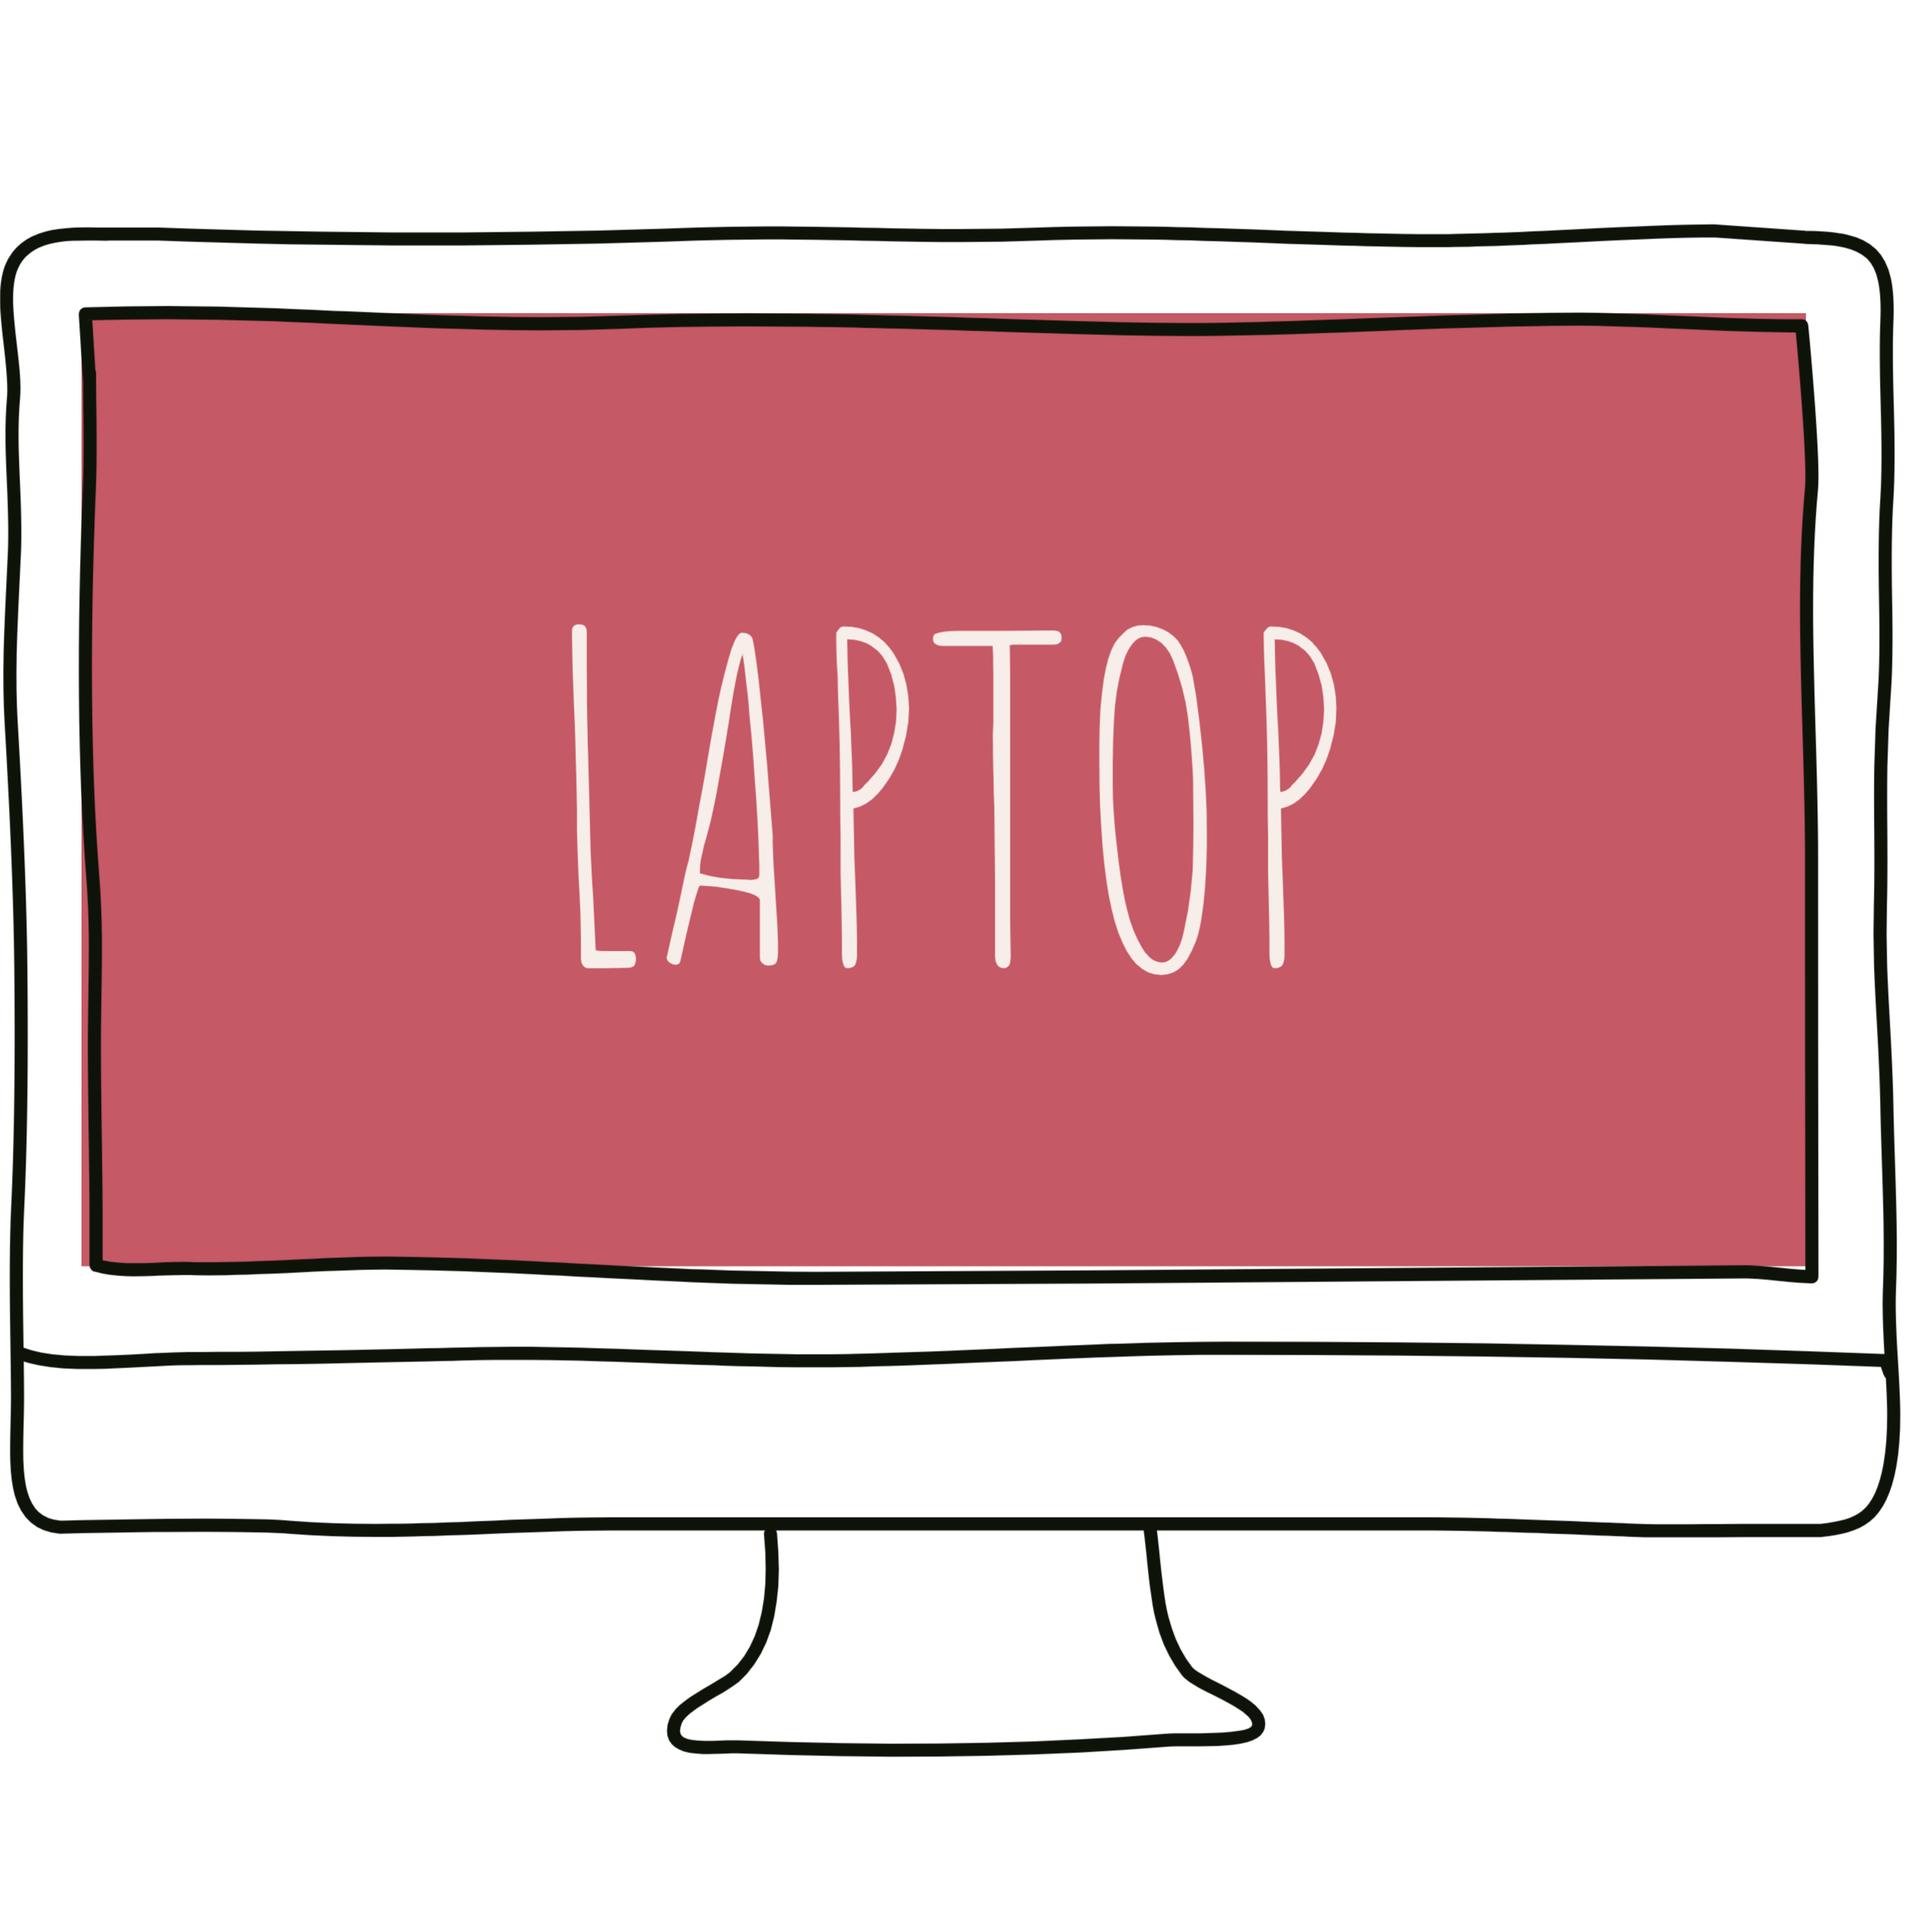
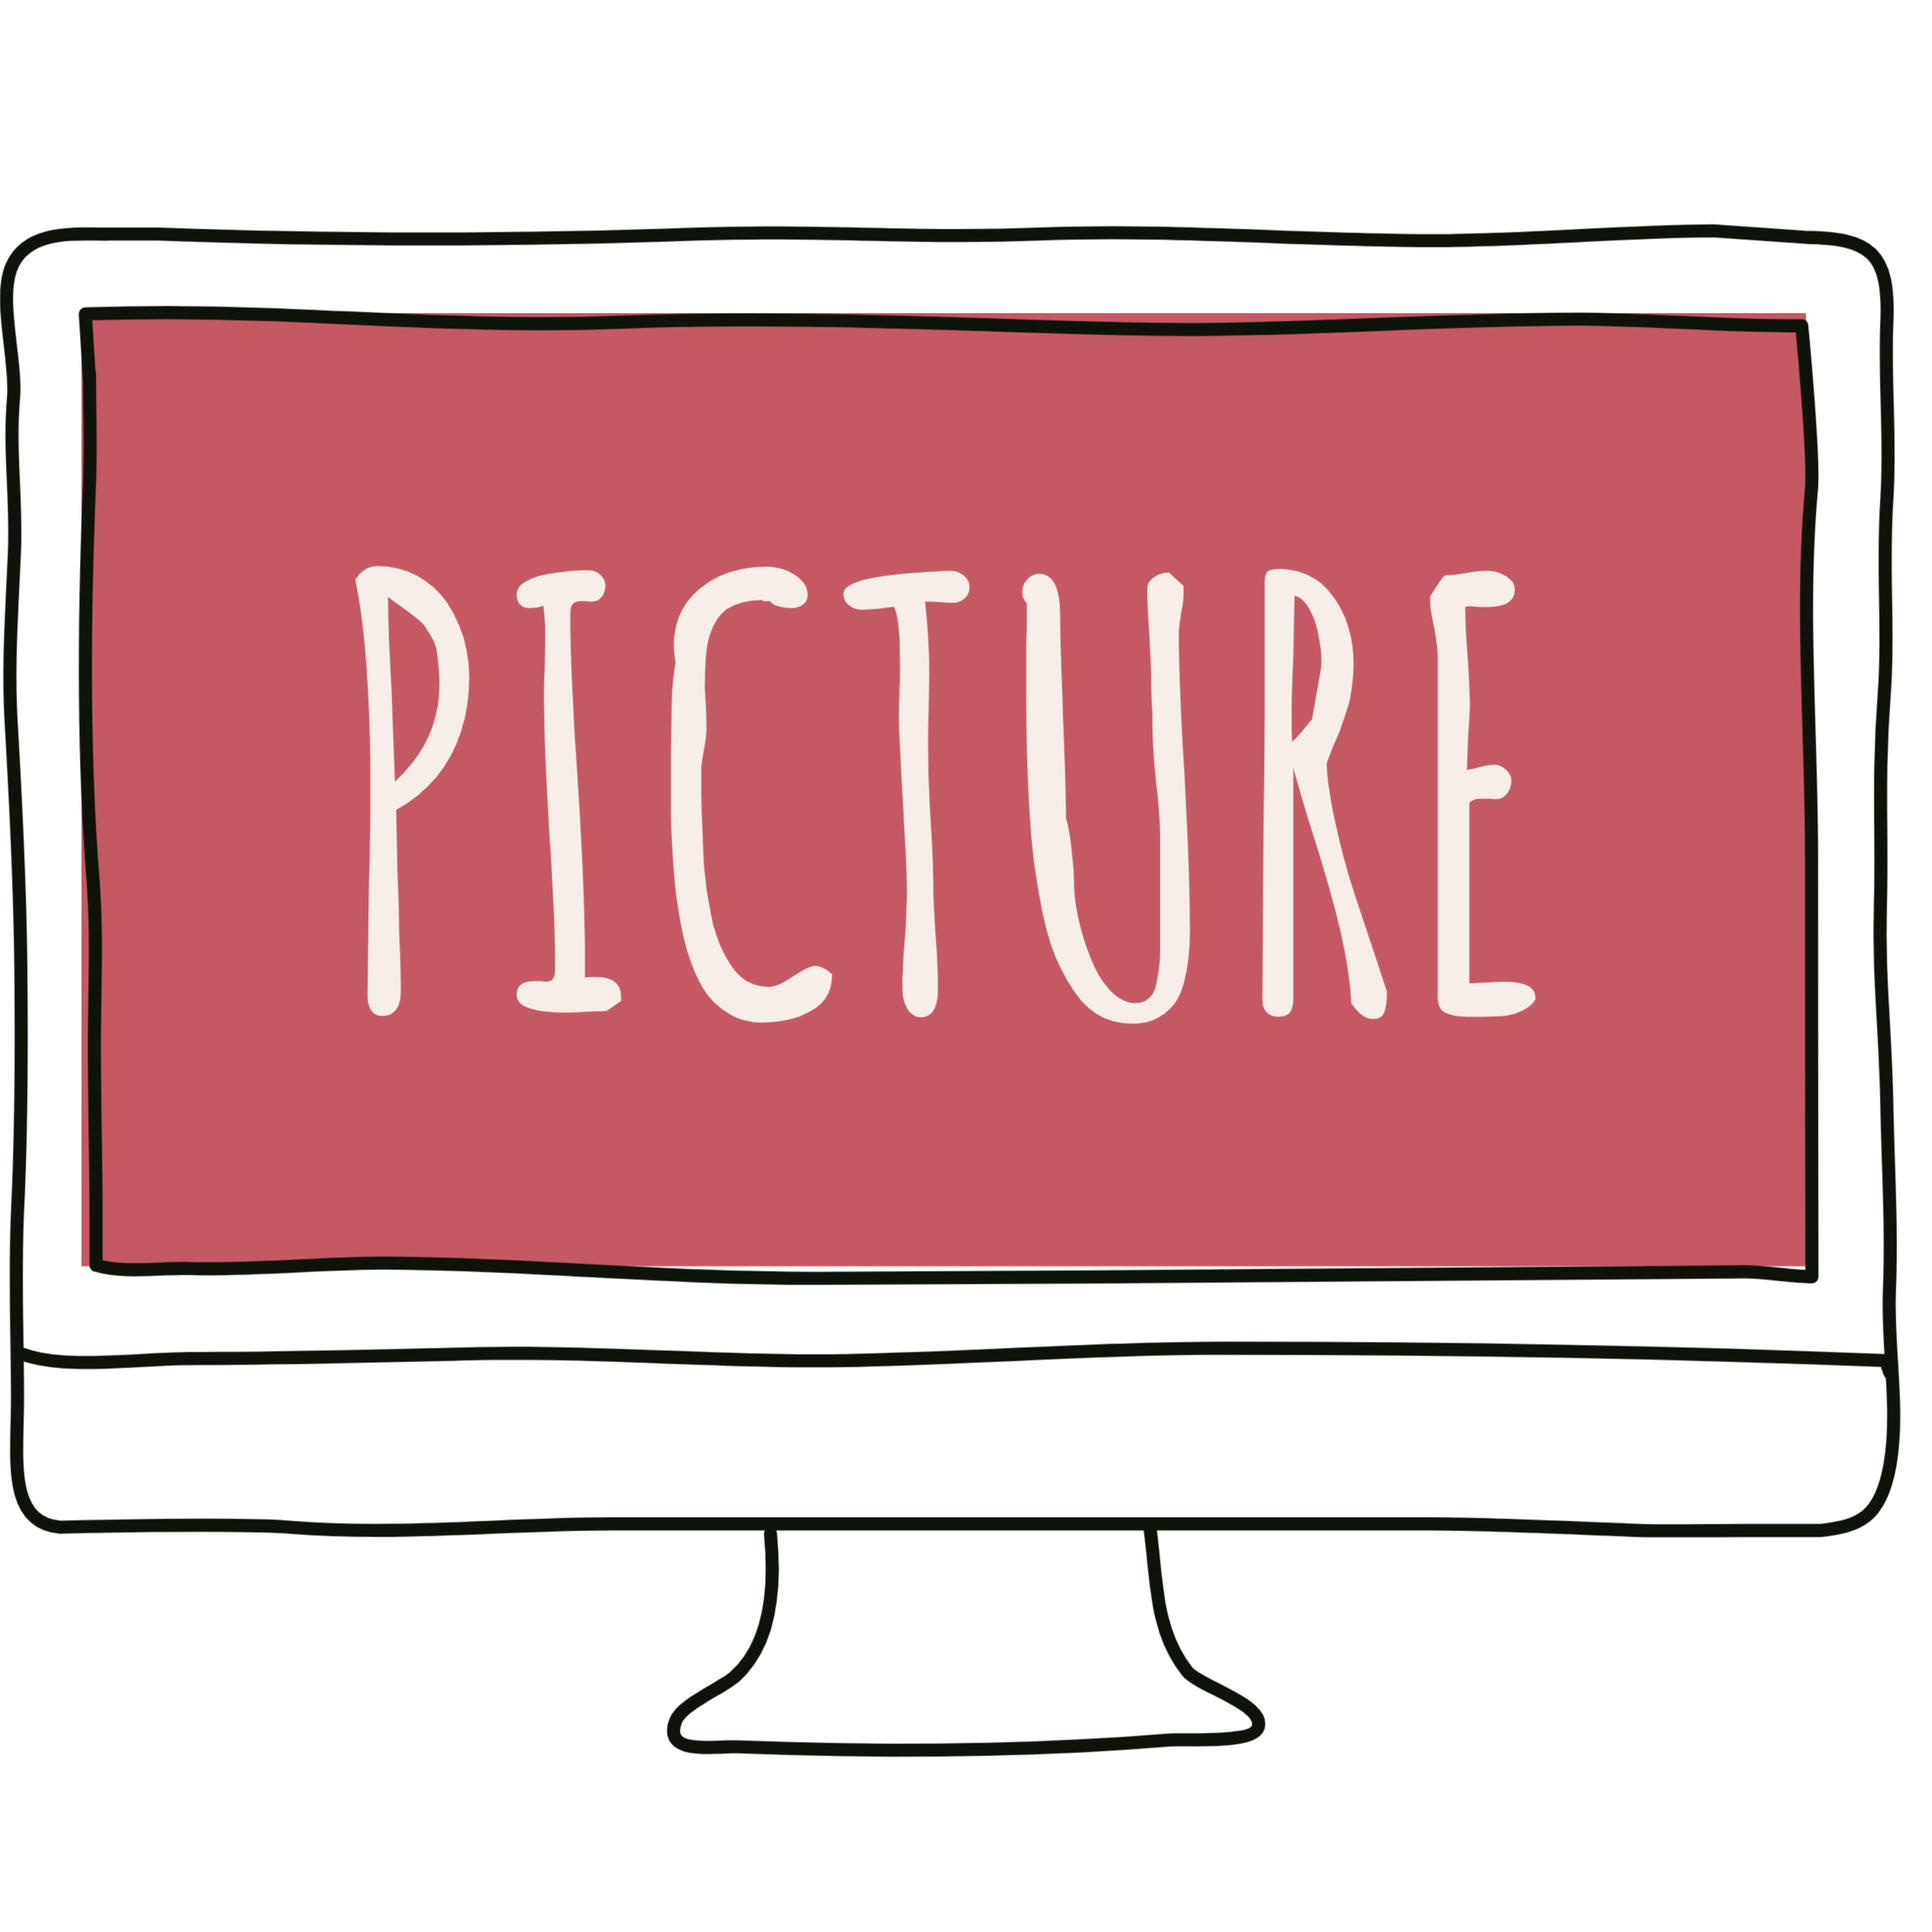
photoUpload

Changed region(s): [[0.1875, 0.2812, 0.625, 0.5312], [0.6562, 0.2812, 0.8125, 0.5312]]

diff --git a/src/routes/Home.js b/src/routes/Home.js
@@ -1,15 +1,121 @@
-import React from 'react'
-// import styled from 'styled-components'
-import LaptopDeco from '../components/LaptopDeco'
+import React, { useState, useEffect } from "react";
+import styled from "styled-components";
+import { ref, listAll, uploadBytes, getDownloadURL } from "firebase/storage";
+import { storage } from "../firebase";
+import { v4 } from "uuid";
 
 const Home = () => {
+  const [imageUrls, setImageUrls] = useState([]);
+  const [imageUpload, setImageUpload] = useState(null);
+
+  const imagesListRef = ref(storage, "images/");
+
+  //이미지 업로드 하기
+  const uploadFile = () => {
+    if (imageUpload == null) return; // 이미지 업로드값이 없으면, 리턴
+    const imageRef = ref(storage, `images/${imageUpload.name + v4()}`);
+    // `images === 참조값 이름(폴더이름),/뒤에 아이디 생성`
+    uploadBytes(imageRef, imageUpload).then((snapshot) => {
+      // 업로드 되자마자 뜨게 만드는것
+      getDownloadURL(snapshot.ref).then((url) => {
+        setImageUrls((prev) => [...prev, url]);
+      });
+    });
+  };
+
+  //저장한 이미지 가져오기
+  useEffect(() => {
+    listAll(imagesListRef).then((response) => {
+      //listAll 메서드 이용해서 이미지 리스트를 불러옴.
+      response.items.forEach((item) => {
+        getDownloadURL(item).then((url) => {
+          setImageUrls((prev) => [...prev, url]);
+        });
+      });
+    });
+  }, []);
+
   return (
-    <div>
-      <LaptopDeco />
-    </div>
-  )
-}
+    <PhotoUploadContainer>
+      <Title>
+        <h2>Photo Upload</h2>
+        <p>자신의 사진을 업로드 하세요.</p>
+      </Title>
+      <PhotoInputWrapper>
+        <input
+          type="file"
+          onChange={(event) => setImageUpload(event.target.files[0])}
+        />
+        <button onClick={uploadFile}> 파일 업로드 </button>
+      </PhotoInputWrapper>
 
+      <PhotoImageWrapper>
+        {imageUrls.map((url, index) => {
+          return <img src={url} key={index} />;
+        })}
+      </PhotoImageWrapper>
+    </PhotoUploadContainer>
+  );
+};
 
+const PhotoUploadContainer = styled.div`
+  width: 100%;
+  height: 100%;
+`;
 
-export default Home
+const Title = styled.div`
+  text-align: center;
+  color: #c45964;
+  h2 {
+    letter-spacing: 1px;
+    font-weight: 700;
+    margin-top: 3rem;
+  }
+  p {
+    letter-spacing: 1px;
+    margin-top: 20px;
+  }
+`;
+
+const PhotoInputWrapper = styled.div`
+  width: 100%;
+  text-align: center;
+  margin: 20px auto;
+`;
+
+const PhotoImageWrapper = styled.div`
+  margin: 50px auto;
+  width: 1000px;
+  display: grid;
+  grid-template-columns: 1fr 1fr 1fr 1fr;
+  grid-gap: 30px;
+  img {
+    cursor: pointer;
+    width: 200px;
+    height: 200px;
+    overflow: hidden;
+    object-fit: cover;
+    margin: 0 auto;
+    border-radius: 10px;
+    box-shadow: rgba(0, 0, 0, 0.24) 0px 3px 8px;
+    &:hover {
+      transform: scale(1.1);
+      transition: transform 800ms ease-in-out;
+    }
+  }
+
+  @media screen and (max-width: 1100px) {
+    width: 80%;
+    grid-template-columns: 1fr 1fr;
+
+    img {
+      width: 200px;
+      height: 200px;
+    }
+  }
+
+  @media screen and (max-width: 600px) {
+    grid-template-columns: 1fr;
+  }
+`;
+export default Home;

diff --git a/src/components/App.js b/src/components/App.js
@@ -2,15 +2,18 @@ import React, { useState, useEffect } from "react";
 import styled from "styled-components";
 import AppRouter from "./Router";
 import { auth } from "../firebase";
+import { updateCurrentUser } from "firebase/auth";
 
 function App() {
   const [init, setInit] = useState(false);
   const [isLoggedIn, setIsLoggedIn] = useState(false);
-
+  const [userObj, setUserObj] = useState(null);
+  
   useEffect(() => {
     auth.onAuthStateChanged((user) => {
       if (user) {
         setIsLoggedIn(true);
+        setUserObj(user);
       } else {
         setIsLoggedIn(false);
       }
@@ -18,11 +21,17 @@ function App() {
     });
   }, []);
 
+  const refreshUser = async () => {
+  await updateCurrentUser(auth, auth.currentUser)
+  setUserObj(auth.currentUser)
+  }
+
+
   return (
     <>
       {init ? (
         <Container>
-          <AppRouter isLoggedIn={isLoggedIn} />{" "}
+          <AppRouter isLoggedIn={isLoggedIn} refreshUser={refreshUser} userObj={userObj} />
         </Container>
       ) : (
         "로딩중..."
@@ -30,7 +39,6 @@ function App() {
     </>
   );
 }
-const Container = styled.div`
-`;
+const Container = styled.div``;
 
 export default App;

diff --git a/src/components/Router.js b/src/components/Router.js
@@ -3,16 +3,16 @@ import { BrowserRouter as Router, Routes, Route } from "react-router-dom";
 import Navigation from "../routes/Navigation";
 import Home from "../routes/Home";
 import Auth from "../routes/Auth";
-import Profile from "../routes/MyLaptop";
-const AppRouter = ({ isLoggedIn }) => {
+import Profile from "../routes/MyProfile";
+const AppRouter = ({ isLoggedIn, userObj }) => {
   return (
     <Router>
-      {isLoggedIn ? <Navigation /> : ""}
+      {isLoggedIn ? <Navigation userObj={userObj} /> : ""}
       <Routes>
         {isLoggedIn ? (
           <>
-            <Route path="/" element={<Home />} />
-            <Route path="/MyLaptop" element={<Profile />} />
+            <Route path="/" element={<Home userObj={userObj} />} />
+            <Route path="/MyProfile" element={<Profile userObj={userObj} />} />
           </>
         ) : (
           <Route path="/" element={<Auth />} />

diff --git a/src/firebase.js b/src/firebase.js
@@ -1,6 +1,7 @@
 import { initializeApp } from "firebase/app";
 import {getAuth} from 'firebase/auth'
 import { getFirestore } from "firebase/firestore";
+import {getStorage} from 'firebase/storage';
 
 const firebaseConfig = {
   apiKey: process.env.REACT_APP_API_KEY,
@@ -15,6 +16,7 @@ const firebaseConfig = {
 const app = initializeApp(firebaseConfig);
 const auth = getAuth()
 const db = getFirestore()
-export {auth}
+const storage = getStorage()
+export {auth,storage }
 export default db;
 

diff --git a/src/routes/MyProfile.js b/src/routes/MyProfile.js
@@ -2,7 +2,7 @@ import React from "react";
 import { auth } from "../firebase";
 import { useNavigate } from "react-router-dom";
 
-const MyLaptop = () => {
+const MyProfile = () => {
   const navigate = useNavigate()
 
   const onLogOutClick = () => {
@@ -17,4 +17,4 @@ const MyLaptop = () => {
   );
 };
 
-export default MyLaptop;
+export default MyProfile;

diff --git a/src/index.css b/src/index.css
@@ -1,3 +1,4 @@
+@import url('https://fonts.googleapis.com/css2?family=Abril+Fatface&family=Montserrat:wght@300;400;500;600;700;900&display=swap');
 * {
   margin: 0;
   padding: 0;
@@ -5,8 +6,8 @@
 
 body {
   color: #272626;
-  width: 100%;
-  height: 100%;
-  
+  width: 100vw;
+  height: 100vh;
+  font-family: 'Abril Fatface', cursive;
 }
 

diff --git a/src/routes/Navigation.js b/src/routes/Navigation.js
@@ -12,7 +12,7 @@ const Navigation = () => {
           </Link>
         </li>
         <li>
-          <Link to="/MyLaptop">My Laptop</Link>
+          <Link to="/MyProfile">My Profile</Link>
         </li>
       </ul>
     </NavContainer>

diff --git a/public/index.html b/public/index.html
@@ -11,7 +11,7 @@
     />
     <link rel="apple-touch-icon" href="./favicon.ico" />
 
-    <title>Latop Decoration Project</title>
+    <title>My Picture Project</title>
   </head>
   <body>
     <div id="root"></div>

diff --git a/README.md b/README.md
@@ -1,12 +1,11 @@
-# Laptop 꾸미기 프로젝트
--  Laptop 앞부분을 스티커로 꾸며 꾸며진 laptop 사진을 저장할 수 있는 사이트를 만들었다.
+# Photo upload 프로젝트
+-  Photo를 업로드 해서 관리할 수 있는 간단한 사이트를 제작함
 
 ## 데모사이트
 
 ## 구현한 내용
 - 회원가입, 로그인
-- 랩탑 앞부분을 주어진 스티커로 꾸미기 
-- 현재 선택된 랩탑이미지를 캡쳐해 저장하기
+- 메인 페이지는 사진을 업로드 할 수 있음
 
 ## 폴더 상세설명
 ```bash 
@@ -17,15 +16,40 @@
 - react, firebase
 - react-router-dom@6.3.0
 - npm i styled-components
-- npm i react-draggable
 
 ## 강의를 통해 배운 것
-- 캔버스에 원하는 이미지를 끌어서 놓는 것을 구현해보았다. 
+- 사진을 업로드 할 수 있는 함수를 배웠고, 이를 firebase의 storage에 저장하는 기능을 배웠다. 
+- 기억하고 싶은 사진 업로드 코드 
+```bash
+  //이미지 업로드 하기
+  const uploadFile = () => {
+    if (imageUpload == null) return; // 이미지 업로드값이 없으면, 리턴
+    const imageRef = ref(storage, `images/${imageUpload.name + v4()}`);
+    // `images === 참조값 이름(폴더이름),/뒤에 아이디 생성`
+    uploadBytes(imageRef, imageUpload).then((snapshot) => {
+      // 업로드 되자마자 뜨게 만드는것
+      getDownloadURL(snapshot.ref).then((url) => {
+        setImageUrls((prev) => [...prev, url]);
+      });
+    });
+  };
 
+  //저장한 이미지 가져오기 
+  useEffect(() => {
+    listAll(imagesListRef).then((response) => {
+      //listAll 메서드 이용해서 이미지 리스트를 불러옴.
+      response.items.forEach((item) => {
+        getDownloadURL(item).then((url) => {
+          setImageUrls((prev) => [...prev, url]);
+        });
+      });
+    });
+  }, []);
+```
 
 ## 학습하면서 어려웠던 점
-
-### 프로필 이름을 수정하고 재 렌더링 되도록 할때 발생한 오류
-
+- 사진 업로드하는 문서를 찾아서 그대로 구현했지만, 오류가 났었다. 그 이유는 v8버전으로 코드를 구현하고 있었던 것이다. 
+- 다시 문서를 찾아 입력해서 파일 업로드를 구현할 수 있었다. 
+- 느꼈던 점은 공식문서는 읽기 어렵더라도 정확히 읽는 연습이 필요하다. 
 
 ### 문제해결 방법
